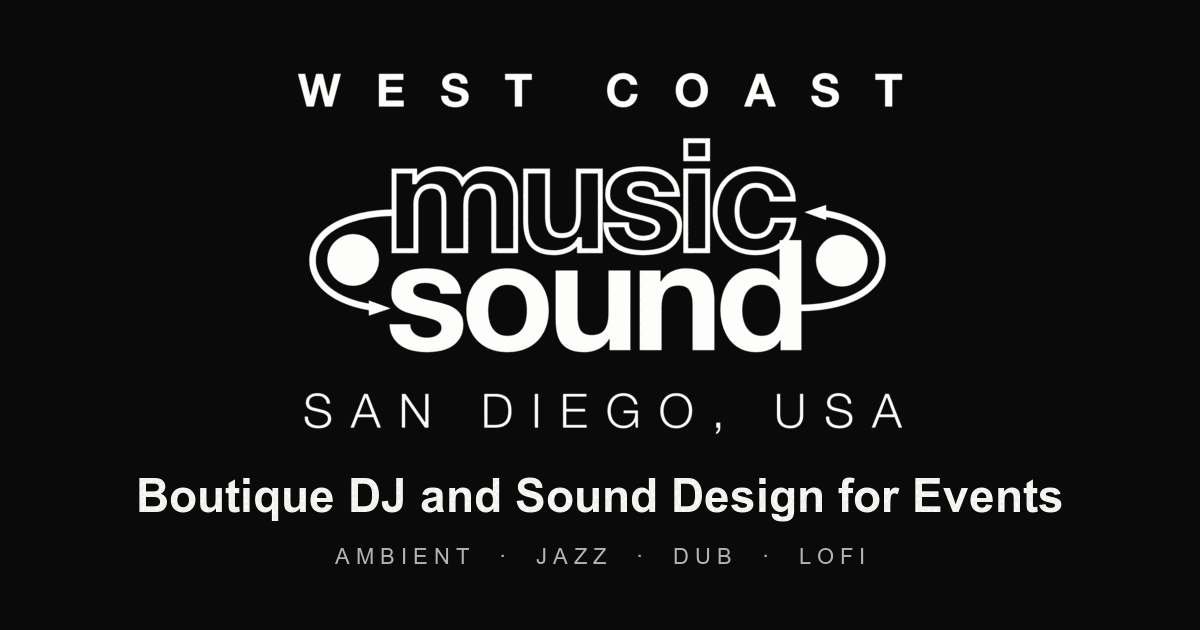
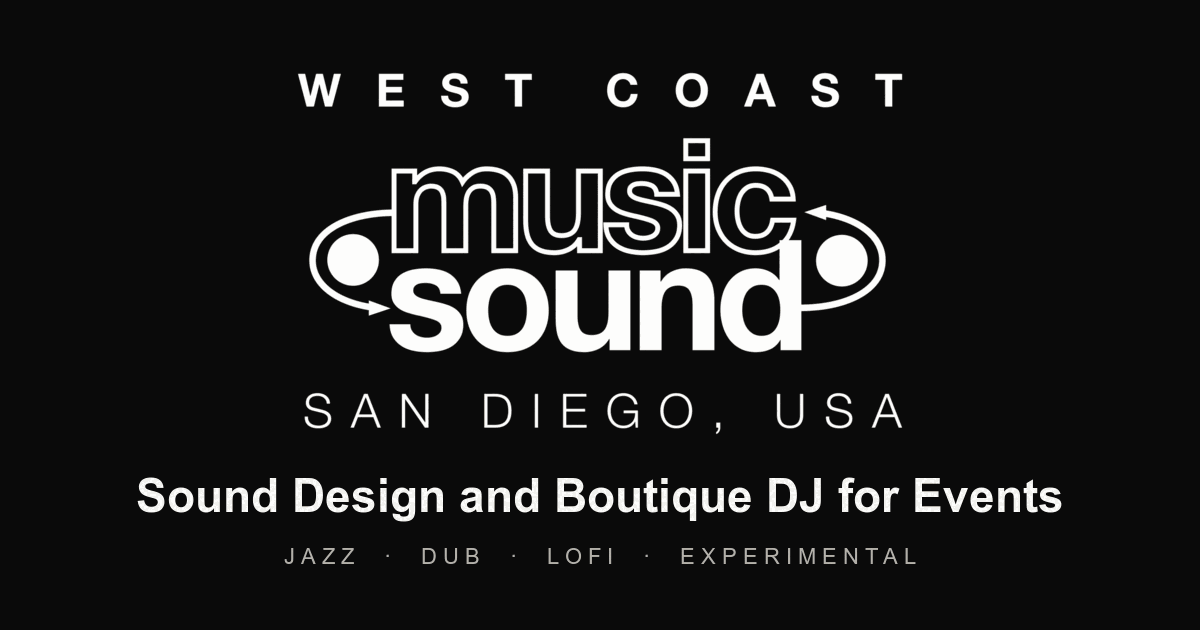
Update tagline, genre list, and services copy

diff --git a/index.html b/index.html
@@ -4,7 +4,7 @@
 <meta charset="UTF-8">
 <meta name="viewport" content="width=device-width, initial-scale=1">
 <title>West Coast Music &amp; Sound — La Jolla, CA</title>
-<meta name="description" content="Boutique DJ sets and expert sound design for live events in La Jolla and San Diego — ambient, jazz, dub, and lofi music, plus system design, recording, and content creation for live sound, games, film, theatre, and dance.">
+<meta name="description" content="Sound design and boutique DJ sets for live events in La Jolla and San Diego — jazz, dub, lofi, and experimental music, plus system design, recording, and content creation for live sound, games, film, theatre, dance, home audio, and home studio.">
 
 <link rel="icon" href="favicon.ico" sizes="any">
 <link rel="icon" href="favicon-32x32.png" type="image/png" sizes="32x32">
@@ -14,14 +14,14 @@
 <meta property="og:type" content="website">
 <meta property="og:url" content="https://westcoastmusicandsound.com/">
 <meta property="og:title" content="West Coast Music & Sound">
-<meta property="og:description" content="Boutique DJ sets and expert sound design for live events in La Jolla and San Diego — ambient, jazz, dub, and lofi music, plus system design, recording, and content creation for live sound, games, film, theatre, and dance.">
+<meta property="og:description" content="Sound design and boutique DJ sets for live events in La Jolla and San Diego — jazz, dub, lofi, and experimental music, plus system design, recording, and content creation for live sound, games, film, theatre, dance, home audio, and home studio.">
 <meta property="og:image" content="https://westcoastmusicandsound.com/og-image.png">
 <meta property="og:image:width" content="1200">
 <meta property="og:image:height" content="630">
 
 <meta name="twitter:card" content="summary_large_image">
 <meta name="twitter:title" content="West Coast Music & Sound">
-<meta name="twitter:description" content="Boutique DJ sets and expert sound design for live events in La Jolla and San Diego.">
+<meta name="twitter:description" content="Sound design and boutique DJ sets for live events in La Jolla and San Diego.">
 <meta name="twitter:image" content="https://westcoastmusicandsound.com/og-image.png">
 
 <style>
@@ -201,8 +201,8 @@
     </picture>
   </div>
 
-  <p class="tagline">Boutique DJ and Sound Design for Events</p>
-  <p class="genres">Ambient &nbsp;·&nbsp; Jazz &nbsp;·&nbsp; Dub &nbsp;·&nbsp; Lofi</p>
+  <p class="tagline">Sound Design and Boutique DJ for Events</p>
+  <p class="genres">Jazz &nbsp;·&nbsp; Dub &nbsp;·&nbsp; Lofi &nbsp;·&nbsp; Experimental</p>
 
   <hr class="divider">
 
@@ -213,15 +213,15 @@
       <p class="service-title">Customized Vinyl and Digital DJ Sets</p>
       <p class="service-desc">
         Curated, polished sound for spaces that call for atmosphere over volume —
-        <strong>coffee shops, product openings, gala receptions, weddings, private parties, and more.</strong>
+        <strong>coffee shops, product openings, gala receptions, private parties, and more.</strong>
       </p>
     </div>
 
     <div class="service">
       <p class="service-title">Expert Sound Design</p>
       <p class="service-desc">
-        System design, recording, and content creation for all media —
-        <strong>live sound events, games, film, theatre, and dance.</strong>
+        System design, recording, and content creation services for all media types —
+        <strong>live sound events, games, film, theatre, dance, home audio, and home studio.</strong>
       </p>
     </div>
   </div>